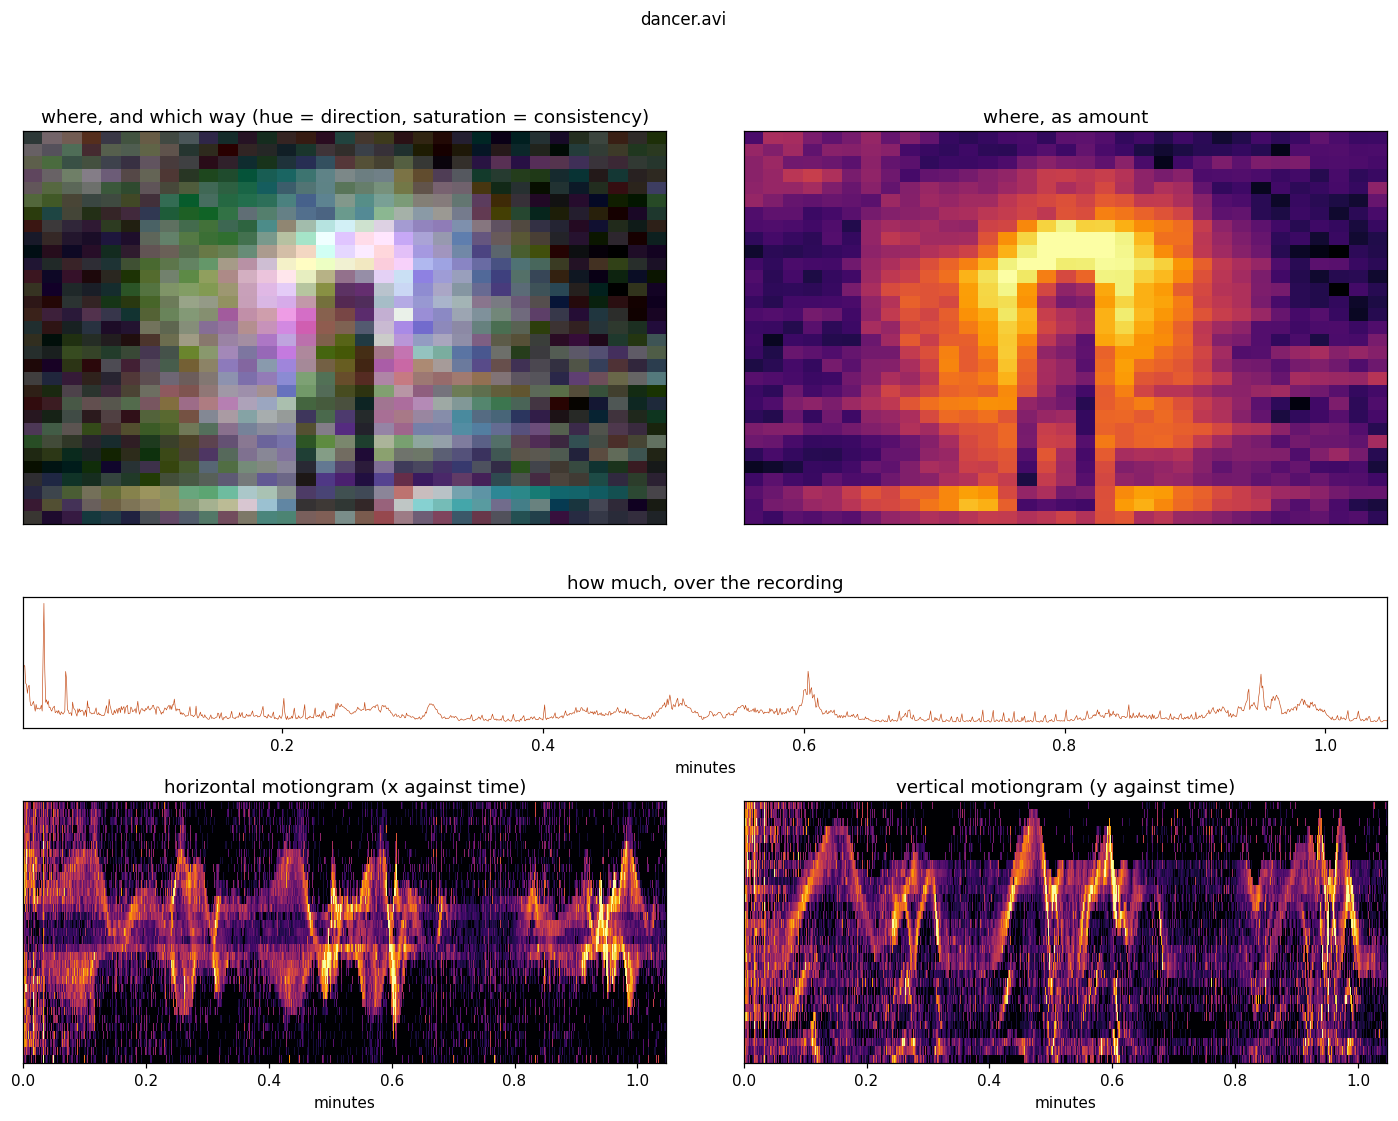
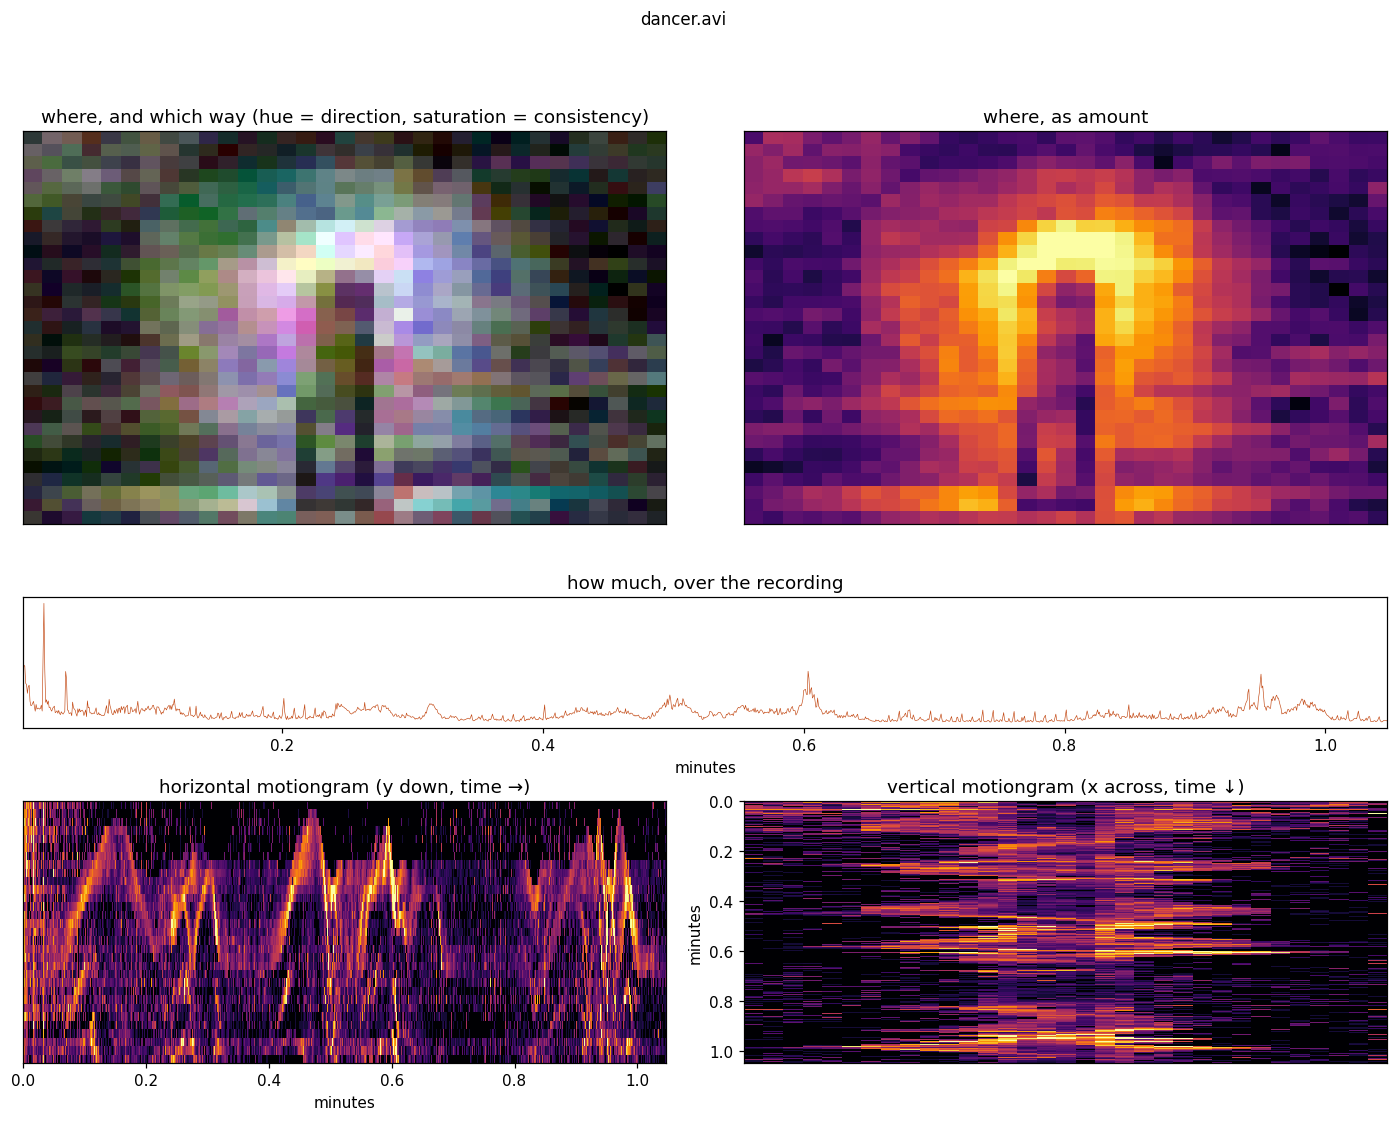
The vector motiongrams take the classic orientations, named for the picture
The vertical motiongram is the tall image --- the frame's width across,
time running downward --- and carries sideways travel; the horizontal is
the wide one and carries vertical travel. The vector path had both drawn
wide and the two names swapped relative to motiongrams(), which the
overview's captions had been apologising for. Data function, dataclass,
rendered images and the overview sheet all change together, the tests
assert the semantics rather than the shapes alone, and the changelog
says plainly that arrays saved by earlier versions carry the old
convention. The docs illustration is regenerated, and on the bundled
dancer the arm oscillations now sit in the horizontal gram, which is
where vertical movement always belonged.

Claude-Session: https://claude.ai/code/session_01GFjgT8igZuQu4EPMvSqK6u

Changed region(s): [[0.0, 0.6869, 1.0, 0.9991]]

diff --git a/musicalgestures/_motionvectors.py b/musicalgestures/_motionvectors.py
@@ -474,14 +474,18 @@ def mg_motionvectorhistory(self: "musicalgestures.MgVideo", mode: str = "directi
 
 
 def motion_vector_motiongrams(filename, p_frames_only=True, deterministic=False, threshold=0.0):
-    """Position against time, one column per frame, from the vectors.
+    """The two classic motiongrams from the vectors, named for the picture.
 
-    The horizontal motiongram collapses each frame's grid down its rows, leaving motion
-    by horizontal position; the vertical one collapses across columns. Stacked over time
-    they are the classic motiongram, and a body crossing the room draws a diagonal.
+    The HORIZONTAL motiongram is the wide picture: each frame's grid collapsed across
+    its columns to a y-profile, stacked so time runs rightward and vertical position
+    down. The VERTICAL motiongram is the tall picture: each frame collapsed down its
+    rows to an x-profile, stacked so time runs downward and horizontal position across.
+    A body crossing the room draws a diagonal in the vertical gram; a body rising or
+    falling draws one in the horizontal. The orientations and names are the ones
+    `motiongrams()` has always used.
 
     Returns:
-        tuple: `(horizontal, vertical)`, shaped (cols, frames) and (rows, frames).
+        tuple: `(horizontal, vertical)`, shaped (rows, frames) and (frames, cols).
     """
     import numpy as np
 
@@ -495,9 +499,9 @@ def motion_vector_motiongrams(filename, p_frames_only=True, deterministic=False,
         down.append(weight.sum(axis=1))
     if not across:
         return np.zeros((0, 0)), np.zeros((0, 0))
-    #: Transposed so that time runs along the image's x axis, which is what makes a
-    #: motiongram readable as a score rather than as a picture of the room.
-    return np.array(across).T, np.array(down).T
+    #: The horizontal gram transposed so time runs along the image's x axis; the
+    #: vertical one left with time down its rows. Each is then already the picture.
+    return np.array(down).T, np.array(across)
 
 
 def mg_motionvectorgrams(self: "musicalgestures.MgVideo", colormap: str = "inferno",
@@ -515,10 +519,11 @@ def mg_motionvectorgrams(self: "musicalgestures.MgVideo", colormap: str = "infer
         colormap (str, optional): Matplotlib colormap. Defaults to `'inferno'`.
         gamma (float, optional): Applied before colouring so quiet passages stay visible.
             Defaults to 0.5.
-        max_width (int, optional): Widest the saved image may be, in pixels. One column
-            per P-frame is right for the array and wrong for the picture: a 158-minute
+        max_width (int, optional): Longest the saved image's TIME axis may be, in
+            pixels --- across the horizontal image, down the vertical one. One point per
+            P-frame is right for the array and wrong for the picture: a 158-minute
             session has 77,592 of them, and stretching that to the video's height gave a
-            149-megapixel PNG of 309 MB for something meant to be glanced at. Columns are
+            149-megapixel PNG of 309 MB for something meant to be glanced at. Points are
             pooled by taking the maximum, not the mean, so a brief accent still shows in
             a column standing for several seconds. Defaults to 4000.
         target_name (str, optional): Output path; the two images take `_mvgram_h` and
@@ -526,7 +531,9 @@ def mg_motionvectorgrams(self: "musicalgestures.MgVideo", colormap: str = "infer
         overwrite (bool, optional): Defaults to True.
 
     Returns:
-        MgList: the horizontal and vertical motiongrams, in that order.
+        MgList: the horizontal and vertical motiongrams, in that order, in the classic
+        orientations --- the horizontal wide with time rightward, the vertical tall
+        with time downward.
     """
     import cv2
     import matplotlib
@@ -542,13 +549,17 @@ def mg_motionvectorgrams(self: "musicalgestures.MgVideo", colormap: str = "infer
     horizontal, vertical = motion_vector_motiongrams(self.filename)
     cmap = matplotlib.colormaps[colormap]
     images = []
-    for gram, suffix, span in ((horizontal, "_h", self.width),
-                               (vertical, "_v", self.height)):
+    #: Classic orientations, named for the picture: the horizontal gram is wide with
+    #: time rightward, the vertical gram is TALL with time downward. The time axis is
+    #: axis 1 of the first and axis 0 of the second, so everything below works on
+    #: (space, time) and transposes the vertical picture back at the end.
+    for gram, suffix, span, tall in ((horizontal, "_h", self.height, False),
+                                     (vertical.T, "_v", self.width, True)):
         if gram.size and gram.shape[1] > max_width:
             #: Pool by maximum rather than mean. A column here stands for several seconds
-            #: once a long recording is squeezed to a readable width, and averaging would
-            #: bury a one-second accent under the quiet around it --- which is exactly
-            #: what a motiongram is read for.
+            #: once a long recording is squeezed to a readable length, and averaging
+            #: would bury a one-second accent under the quiet around it --- which is
+            #: exactly what a motiongram is read for.
             edges = np.linspace(0, gram.shape[1], max_width + 1).astype(int)
             gram = np.stack([gram[:, a:max(b, a + 1)].max(axis=1)
                              for a, b in zip(edges[:-1], edges[1:])], axis=1)
@@ -560,6 +571,8 @@ def mg_motionvectorgrams(self: "musicalgestures.MgVideo", colormap: str = "infer
         #: grams line up with the video and with each other; nearest, because smoothing a
         #: macroblock lattice invents detail the vectors never had.
         out = cv2.resize(rgb, (rgb.shape[1], span), interpolation=cv2.INTER_NEAREST)
+        if tall:
+            out = out.transpose(1, 0, 2)
         path = f"{stem}{suffix}.png"
         cv2.imwrite(path, out[..., ::-1])
         images.append(MgImage(path))
@@ -669,7 +682,9 @@ class MgMotionVectorViews:
 
     Three kinds of representation, which is what a first pass over unfamiliar material
     wants: **spatial** (where motion happened, and which way), **temporal** (how much,
-    over time), and **spatio-temporal** (the motiongrams, position against time).
+    over time), and **spatio-temporal** (the motiongrams, position against time, in
+    the classic orientations: `motiongram_horizontal` as (rows, frames) with time
+    rightward, `motiongram_vertical` as (frames, cols) with time downward).
     """
     history_weight: "np.ndarray"
     history_vx: "np.ndarray"
@@ -733,8 +748,8 @@ def motion_vector_views(filename, p_frames_only=True, deterministic=False, thres
         history_weight=total, history_vx=mean_x, history_vy=mean_y,
         history_coherence=np.clip(coherence, 0, 1),
         time=np.array(times), magnitude=np.array(magnitude),
-        motiongram_horizontal=np.array(across).T,
-        motiongram_vertical=np.array(down).T)
+        motiongram_horizontal=np.array(down).T,
+        motiongram_vertical=np.array(across))
 
 
 def mg_motionvectoroverview(self: "musicalgestures.MgVideo", colormap: str = "inferno",
@@ -820,16 +835,25 @@ def mg_motionvectoroverview(self: "musicalgestures.MgVideo", colormap: str = "in
     ax.set_yticks([])
 
     minutes = (v.time[-1] / 60) if len(v.time) else 1
-    for column, (gram, label) in enumerate((
-            (v.motiongram_horizontal, "horizontal motiongram (x against time)"),
-            (v.motiongram_vertical, "vertical motiongram (y against time)"))):
-        ax = fig.add_subplot(grid[2, column])
-        if gram.size:
-            ax.imshow(shade(gram), cmap=colormap, aspect="auto",
-                      interpolation="nearest", extent=(0, minutes, gram.shape[0], 0))
-        ax.set_title(label)
-        ax.set_xlabel("minutes")
-        ax.set_yticks([])
+    #: Classic orientations, named for the picture: the horizontal gram wide with time
+    #: rightward, the vertical gram with time running DOWNWARD in its panel.
+    ax = fig.add_subplot(grid[2, 0])
+    if v.motiongram_horizontal.size:
+        ax.imshow(shade(v.motiongram_horizontal), cmap=colormap, aspect="auto",
+                  interpolation="nearest",
+                  extent=(0, minutes, v.motiongram_horizontal.shape[0], 0))
+    ax.set_title("horizontal motiongram (y down, time \u2192)")
+    ax.set_xlabel("minutes")
+    ax.set_yticks([])
+
+    ax = fig.add_subplot(grid[2, 1])
+    if v.motiongram_vertical.size:
+        ax.imshow(shade(v.motiongram_vertical), cmap=colormap, aspect="auto",
+                  interpolation="nearest",
+                  extent=(0, v.motiongram_vertical.shape[1], minutes, 0))
+    ax.set_title("vertical motiongram (x across, time \u2193)")
+    ax.set_ylabel("minutes")
+    ax.set_xticks([])
 
     fig.suptitle(os.path.basename(self.filename), fontsize=11)
     fig.savefig(target_name, bbox_inches="tight")

diff --git a/tests/test_motionvectorgrams.py b/tests/test_motionvectorgrams.py
@@ -30,46 +30,58 @@ def moving_down(tmp_path_factory):
                               frames=60)
 
 
-def _ridge(gram, axis_len):
-    """Where the motion sits in each column of the motiongram, ignoring empty columns."""
+def _ridge_over_columns(gram):
+    """Where the motion sits in each column, ignoring empty columns."""
     strong = gram.sum(axis=0) > 0
     return np.array([int(np.argmax(gram[:, i])) for i in range(gram.shape[1]) if strong[i]])
 
 
+def _ridge_over_rows(gram):
+    """Where the motion sits in each row, ignoring empty rows."""
+    strong = gram.sum(axis=1) > 0
+    return np.array([int(np.argmax(gram[i])) for i in range(gram.shape[0]) if strong[i]])
+
+
 class Test_the_diagonal:
-    def test_rightward_travel_draws_a_ridge_that_moves_right_over_time(self, moving_right):
-        horizontal, _ = motion_vector_motiongrams(moving_right)
-        ridge = _ridge(horizontal, horizontal.shape[0])
-        assert len(ridge) > 10
-        first, last = ridge[:len(ridge) // 3], ridge[-len(ridge) // 3:]
-        assert last.mean() > first.mean() + 2
+    """Classic orientation, named for the picture: the VERTICAL motiongram is the tall
+    one --- x across, time running downward --- so sideways travel belongs to it. The
+    HORIZONTAL motiongram is the wide one --- time rightward, y down --- and carries
+    vertical travel. Both statements are the ones `motiongrams()` has always made."""
 
-    def test_downward_travel_draws_the_ridge_in_the_vertical_gram(self, moving_down):
-        _, vertical = motion_vector_motiongrams(moving_down)
-        ridge = _ridge(vertical, vertical.shape[0])
-        assert len(ridge) > 10
-        first, last = ridge[:len(ridge) // 3], ridge[-len(ridge) // 3:]
-        assert last.mean() > first.mean() + 2
-
-    def test_horizontal_travel_leaves_the_vertical_gram_stationary(self, moving_right):
-        """The axis that nothing moved along must not show a drift."""
+    def test_rightward_travel_draws_a_descending_ridge_in_the_vertical_gram(self, moving_right):
         _, vertical = motion_vector_motiongrams(moving_right)
-        ridge = _ridge(vertical, vertical.shape[0])
+        ridge = _ridge_over_rows(vertical)
+        assert len(ridge) > 10
+        first, last = ridge[:len(ridge) // 3], ridge[-len(ridge) // 3:]
+        assert last.mean() > first.mean() + 2
+
+    def test_downward_travel_draws_the_ridge_in_the_horizontal_gram(self, moving_down):
+        horizontal, _ = motion_vector_motiongrams(moving_down)
+        ridge = _ridge_over_columns(horizontal)
+        assert len(ridge) > 10
+        first, last = ridge[:len(ridge) // 3], ridge[-len(ridge) // 3:]
+        assert last.mean() > first.mean() + 2
+
+    def test_horizontal_travel_leaves_the_horizontal_gram_stationary(self, moving_right):
+        """The axis that nothing moved along must not show a drift."""
+        horizontal, _ = motion_vector_motiongrams(moving_right)
+        ridge = _ridge_over_columns(horizontal)
         first, last = ridge[:len(ridge) // 3], ridge[-len(ridge) // 3:]
         assert abs(last.mean() - first.mean()) < 2
 
 
 class Test_shape:
-    def test_one_column_per_frame_used(self, moving_right):
+    def test_time_runs_across_the_horizontal_gram_and_down_the_vertical(self, moving_right):
         horizontal, vertical = motion_vector_motiongrams(moving_right)
-        assert horizontal.shape[1] == vertical.shape[1]
+        assert horizontal.shape[1] == vertical.shape[0]
         assert horizontal.shape[1] > 5
 
     def test_each_gram_spans_its_own_axis(self, moving_right):
         horizontal, vertical = motion_vector_motiongrams(moving_right)
-        # 320x240 at a 16-pixel grid
-        assert horizontal.shape[0] == 20
-        assert vertical.shape[0] == 15
+        # 320x240 at a 16-pixel grid: y cells down the horizontal gram,
+        # x cells across the vertical one
+        assert horizontal.shape[0] == 15
+        assert vertical.shape[1] == 20
 
 
 class Test_the_image_stays_openable:
@@ -85,8 +97,21 @@ class Test_the_image_stays_openable:
         from PIL import Image
         result = musicalgestures.MgVideo(moving_right).motionvectorgrams(
             max_width=24, target_name=str(tmp_path / "g.png"))
-        for image in result:
-            assert Image.open(image.filename).size[0] <= 24
+        #: The cap holds the TIME axis, wherever that axis runs: across the
+        #: horizontal image, down the vertical one.
+        assert Image.open(result[0].filename).size[0] <= 24
+        assert Image.open(result[1].filename).size[1] <= 24
+
+    def test_the_images_carry_the_classic_orientation(self, moving_right, tmp_path):
+        """The vertical motiongram is the tall picture: the frame's width across,
+        time downward. The horizontal one is wide: the frame's height down, time
+        rightward."""
+        from PIL import Image
+        result = musicalgestures.MgVideo(moving_right).motionvectorgrams(
+            target_name=str(tmp_path / "o.png"))
+        horizontal, vertical = result[0], result[1]
+        assert Image.open(horizontal.filename).size[1] == 240
+        assert Image.open(vertical.filename).size[0] == 320
 
     def test_a_short_recording_is_not_stretched_up_to_the_cap(self, moving_right,
                                                              tmp_path):

diff --git a/CHANGELOG.md b/CHANGELOG.md
@@ -7,6 +7,18 @@ and this project adheres to [Semantic Versioning](https://semver.org/spec/v2.0.0
 
 ## [Unreleased]
 
+### Changed
+- **The motion-vector motiongrams now use the classic orientations, named for the
+  picture.** The vertical motiongram is the tall image — the frame's width across,
+  time running downward — and carries sideways travel; the horizontal motiongram is
+  the wide image — time rightward, the frame's height down — and carries vertical
+  travel. Previously the vector path drew both wide and had the two names swapped
+  relative to `motiongrams()`. This changes `motion_vector_motiongrams`'s return
+  arrays (now `(rows, frames)` and `(frames, cols)`), the `_mvgram_h`/`_mvgram_v`
+  images, the `motionvectoroverview` sheet and `motionvectordata`'s gram fields;
+  arrays saved by earlier versions carry the old convention and should be re-derived
+  or transposed.
+
 ### Added
 - **`multishot(animate=True)`** — the chronophotograph as a looping GIF of its own
   build-up: the bare room first, then one more body per frame in time order, with the

diff --git a/docs/musicalgestures/_motionvectors.md b/docs/musicalgestures/_motionvectors.md
@@ -64,10 +64,10 @@ representation a first pass wants:
 ![Motion-vector overview sheet of the bundled dancer example](../images/examples/dancer_motionvectoroverview.png)
 
 *The bundled `dancer.avi` on one sheet. The amount map draws the arc the arms swept
-around a body that never moved its feet, and the motiongrams carry the same dance as
-oscillations against time. Both motiongram panels run time left to right so the sheet
-reads on one clock; the vertical motiongram is therefore shown transposed relative to
-the classic tall rendering, where its time runs downward.*
+around a body that never moved its feet, and the motiongrams carry the same dance in
+the classic orientations: the horizontal motiongram runs time rightward and holds the
+arm oscillations, since this dance is vertical movement, and the vertical motiongram
+runs time downward with the room's width across.*
 
 About five minutes for a 100-minute 1920x1080 recording, against roughly twenty-four for
 the same views computed one at a time, because decoding is nearly the whole cost and each
